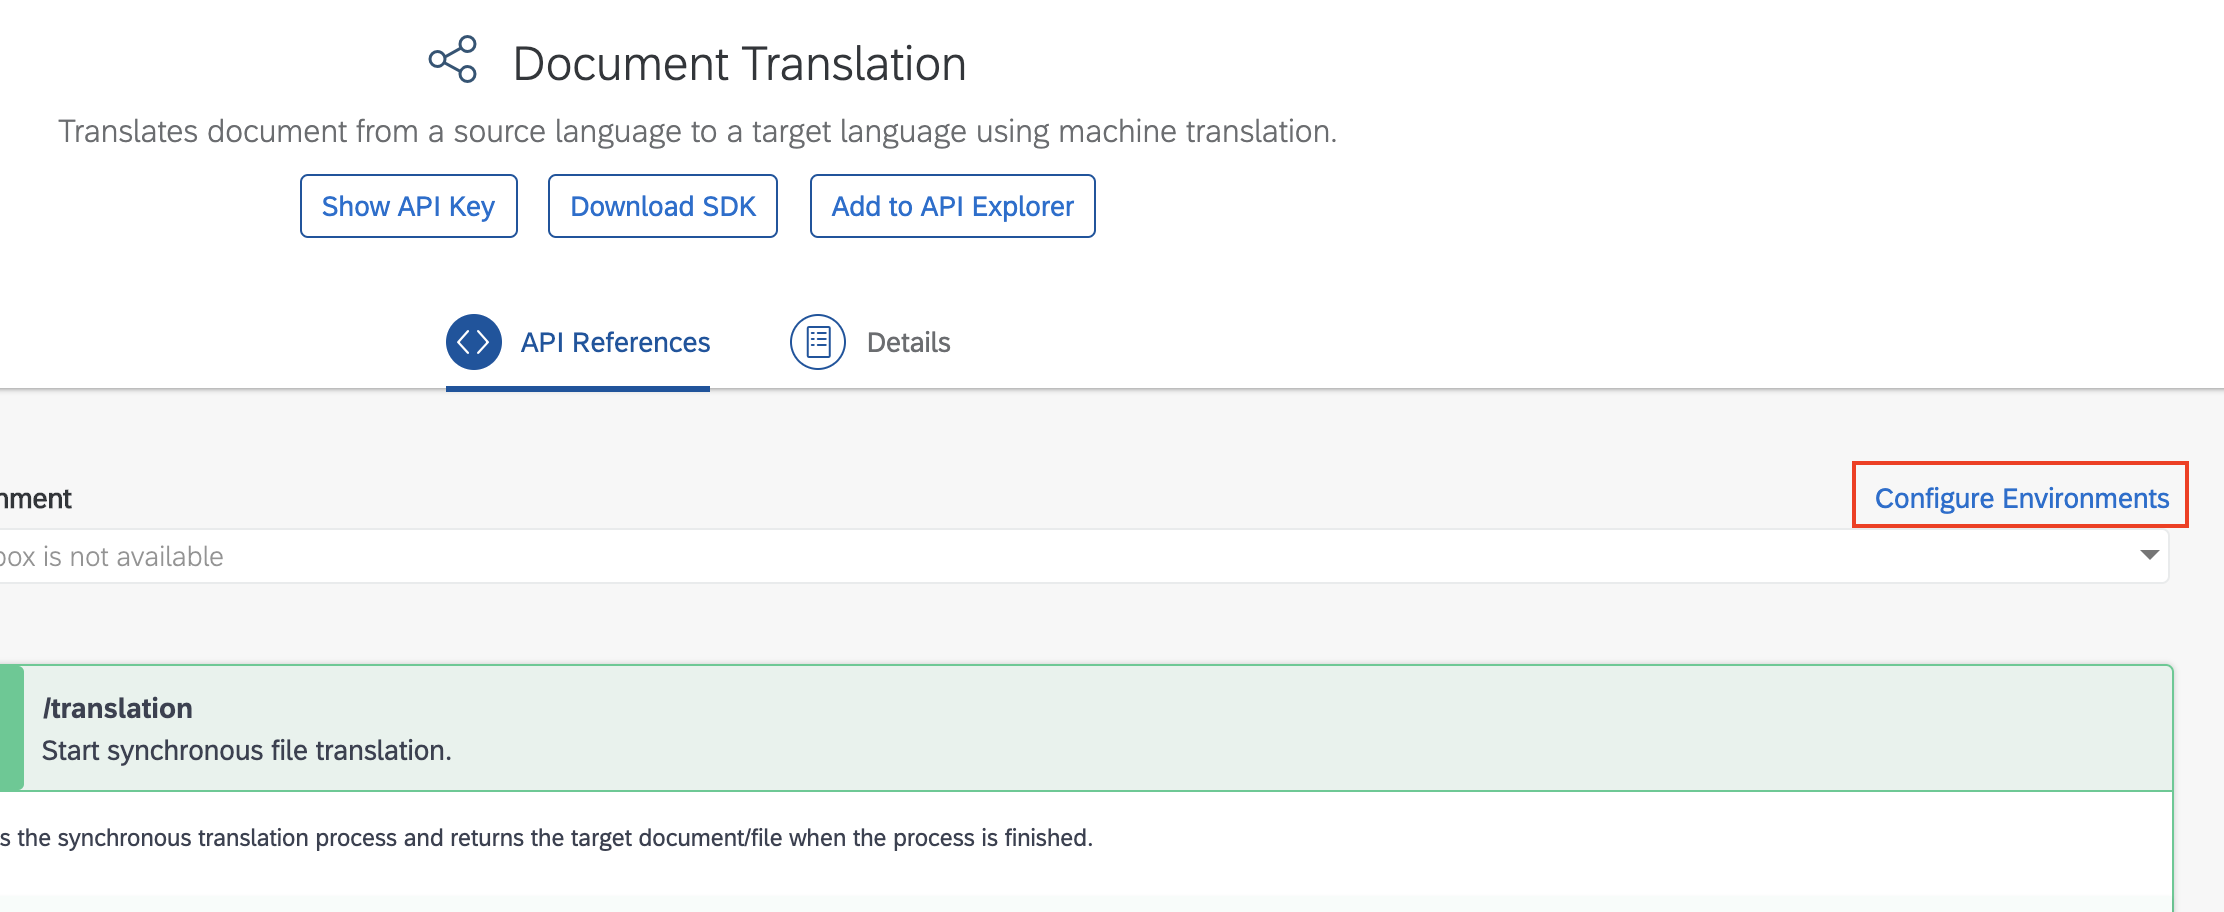
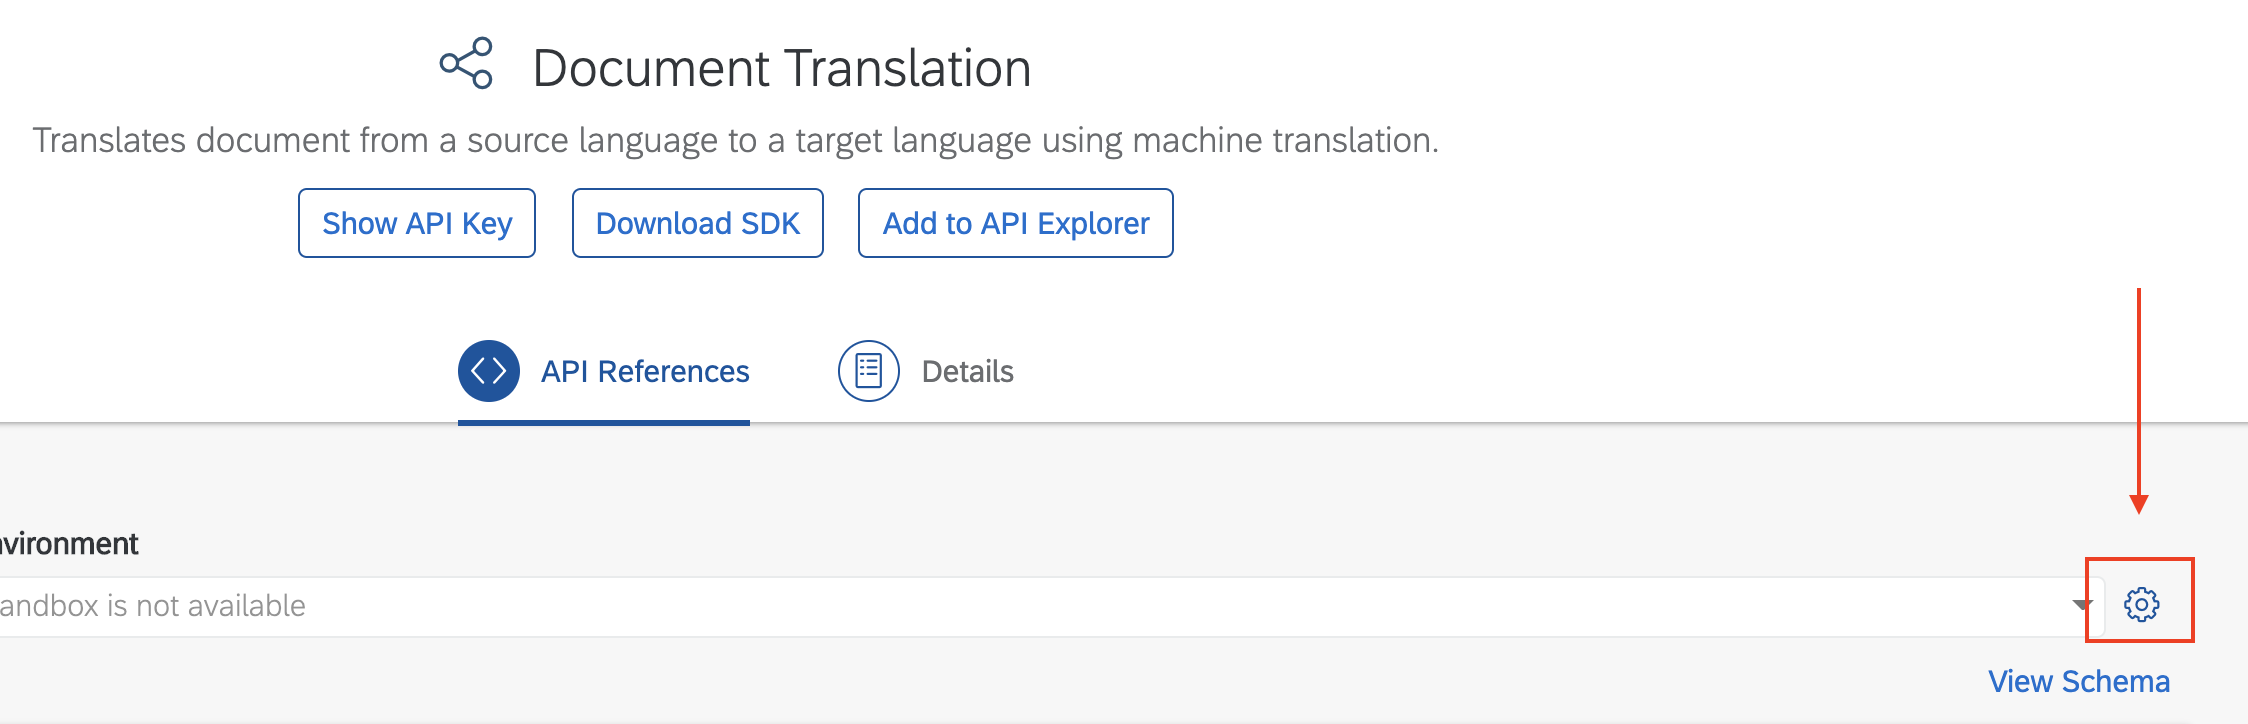
Update the API Hub Configure Environments screenshot and text

diff --git a/exercises/part5/README.md b/exercises/part5/README.md
@@ -101,7 +101,7 @@ Enter the subaccount, and the **Services > Service Marketplace**.
 * identityzone  
 
 9. Open the [Document Translation service’s page](https://api.sap.com/api/documenttranslation/resource) on **SAP API Business Hub** and **Log On**.  
-Click on **Configure Environments**.  
+Click on the Configure Environments button.  
 
 <p align="center" width="100%">
    <img src="/exercises/part5/images/api_hub_configure_environments.png" width="60%"/>
